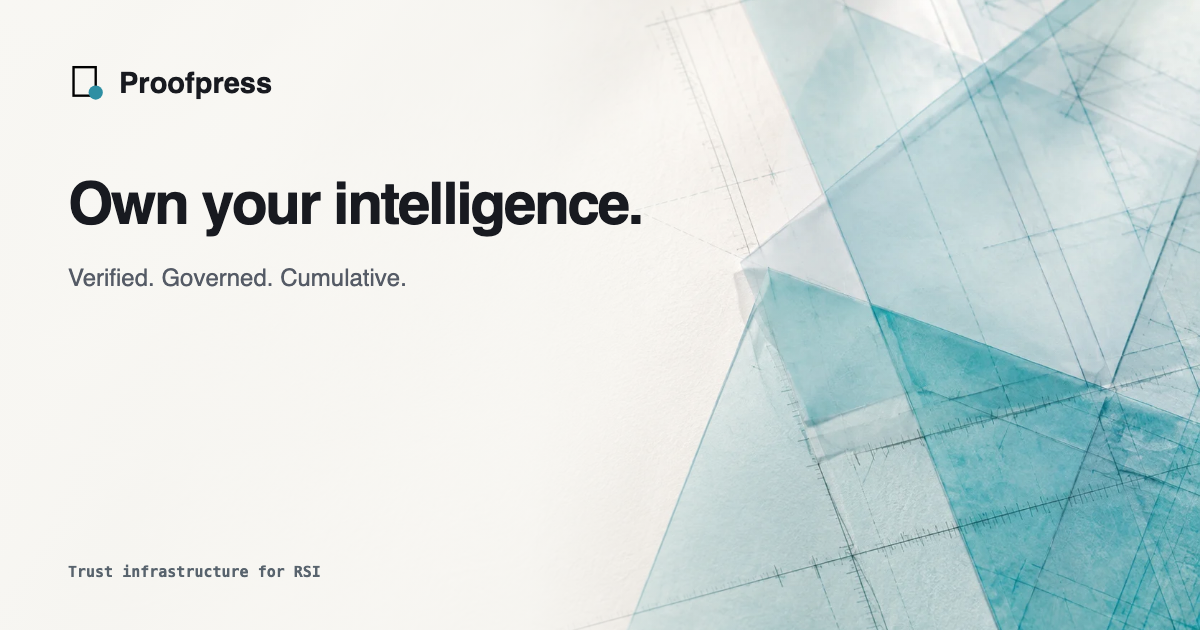
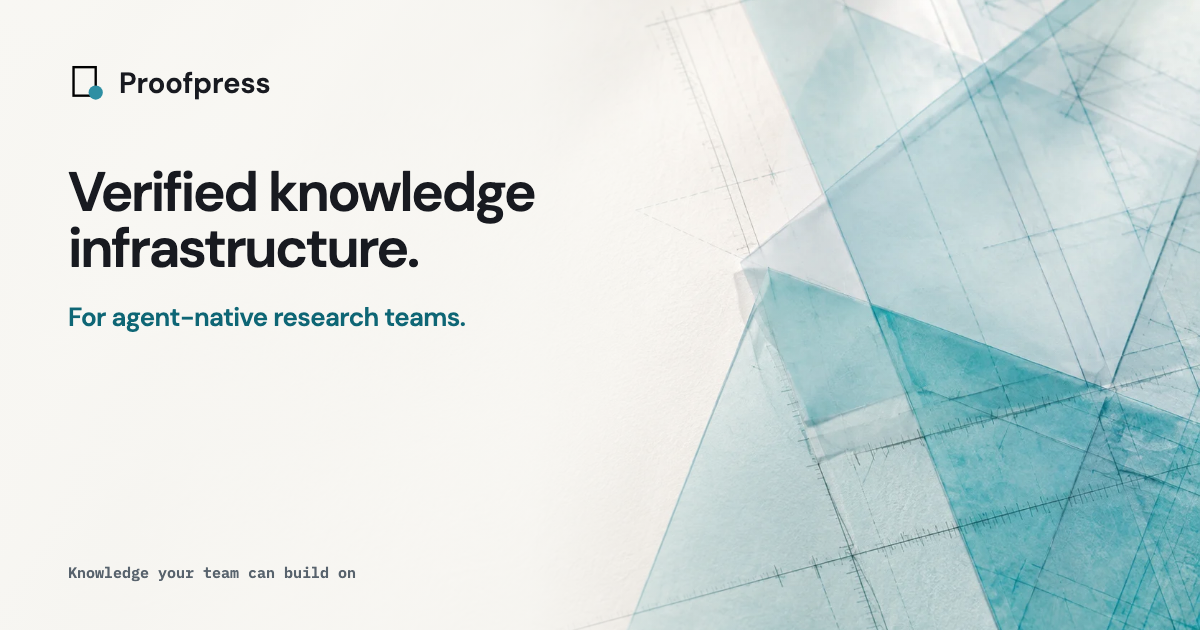
Refresh Open Graph positioning card

diff --git a/web/landing/index.html b/web/landing/index.html
@@ -10,18 +10,18 @@
     <meta property="og:type" content="website" />
     <meta property="og:site_name" content="Proofpress" />
     <meta property="og:url" content="https://proofpress.dev/" />
-    <meta property="og:title" content="Proofpress — Verified knowledge infrastructure" />
-    <meta property="og:description" content="For agent-native research teams. Turn research output into knowledge your team can build on." />
+    <meta property="og:title" content="Proofpress — Verified knowledge infrastructure for agent-native research teams" />
+    <meta property="og:description" content="Turn research output into knowledge your team can build on." />
     <meta property="og:image" content="https://proofpress.dev/og-proofpress.png" />
     <meta property="og:image:type" content="image/png" />
     <meta property="og:image:width" content="1200" />
     <meta property="og:image:height" content="630" />
-    <meta property="og:image:alt" content="Proofpress: Own your intelligence. Verified. Governed. Cumulative." />
+    <meta property="og:image:alt" content="Proofpress: Verified knowledge infrastructure for agent-native research teams." />
     <meta name="twitter:card" content="summary_large_image" />
-    <meta name="twitter:title" content="Proofpress — Verified knowledge infrastructure" />
-    <meta name="twitter:description" content="For agent-native research teams. Turn research output into knowledge your team can build on." />
+    <meta name="twitter:title" content="Proofpress — Verified knowledge infrastructure for agent-native research teams" />
+    <meta name="twitter:description" content="Turn research output into knowledge your team can build on." />
     <meta name="twitter:image" content="https://proofpress.dev/og-proofpress.png" />
-    <meta name="twitter:image:alt" content="Proofpress: Own your intelligence. Verified. Governed. Cumulative." />
+    <meta name="twitter:image:alt" content="Proofpress: Verified knowledge infrastructure for agent-native research teams." />
     <link rel="preconnect" href="https://fonts.googleapis.com" />
     <link rel="preconnect" href="https://fonts.gstatic.com" crossorigin />
     <link href="https://fonts.googleapis.com/css2?family=DM+Sans:wght@400;500;600;700&family=IBM+Plex+Mono:wght@500;600&display=swap" rel="stylesheet" />

diff --git a/web/landing/scripts/og-card.html b/web/landing/scripts/og-card.html
@@ -23,8 +23,8 @@
       main { position: relative; z-index: 1; height: 100%; display: flex; flex-direction: column; }
       header { display: flex; align-items: center; gap: 13px; font-size: 29px; font-weight: 600; }
       header img { width: 38px; height: 38px; }
-      h1 { width: 650px; margin: 72px 0 0; font-size: 58px; line-height: 1.03; letter-spacing: -.035em; font-weight: 600; }
-      p { width: 570px; margin: 28px 0 0; color: #555b66; font-size: 24px; line-height: 1.35; font-weight: 500; }
+      h1 { width: 650px; margin: 62px 0 0; font-size: 55px; line-height: 1.02; letter-spacing: -.04em; font-weight: 600; }
+      p { width: 570px; margin: 26px 0 0; color: #0e6675; font-size: 26px; line-height: 1.18; font-weight: 600; letter-spacing: -.025em; }
       footer { display: flex; gap: 26px; margin-top: auto; color: #58636d; font: 600 15px/1 "IBM Plex Mono", monospace; }
       footer span + span::before { content: "·"; margin-right: 26px; color: #0e6675; }
     </style>
@@ -32,9 +32,9 @@
   <body>
     <main>
       <header><img src="../public/logo.svg" alt="" />Proofpress</header>
-      <h1>Own your intelligence.</h1>
-      <p>Verified. Governed. Cumulative.</p>
-      <footer><span>Trust infrastructure for RSI</span></footer>
+      <h1>Verified knowledge<br />infrastructure.</h1>
+      <p>For agent-native research teams.</p>
+      <footer><span>Knowledge your team can build on</span></footer>
     </main>
   </body>
 </html>
